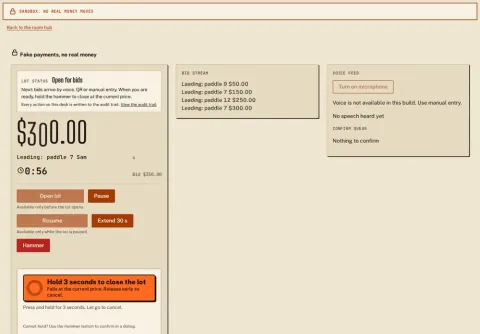
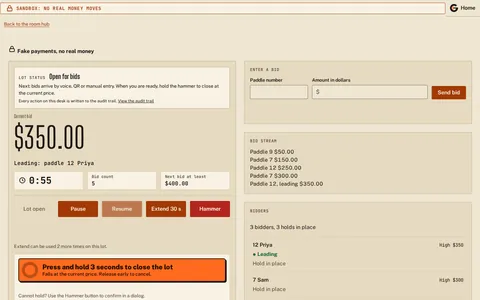
fix(web): refresh landing shots and show phone shots whole

diff --git a/packages/web/test/screens/landing-shots.spec.ts b/packages/web/test/screens/landing-shots.spec.ts
@@ -18,8 +18,12 @@ const OUT = process.env['LANDING_SHOTS_DIR'];
 /** Scenario time after the fifth bid and before the hammer: paddle 12 leads at $350.00. */
 const LIVE_AT = 5_500;
 const PADDLE = 12;
+/** Moves the sample room from its 2023 start to 11 Nov 2026, 09:30 UTC (a current date on the receipt). */
+const SHIFT = 1_794_389_400_000 - 1_700_000_000_000;
+/** Where the Screens section pictures go, when set (before/after checks of the page layout). */
+const SECTION_OUT = process.env['LANDING_SECTION_DIR'];
 
-test.skip(OUT === undefined, 'LANDING_SHOTS_DIR is not set');
+test.skip(OUT === undefined && SECTION_OUT === undefined, 'LANDING_SHOTS_DIR is not set');
 
 async function save(page: Page, name: string): Promise<void> {
   await page.evaluate(() => document.fonts.ready);
@@ -29,24 +33,37 @@ async function save(page: Page, name: string): Promise<void> {
 
 test.describe('landing shots', () => {
   test('console', async ({ page }, info) => {
-    test.skip(info.project.name !== 'desktop-light');
-    await openRoom(page, { scenario: happy, at: LIVE_AT, role: 'auctioneer', route: 'console' });
+    test.skip(OUT === undefined || info.project.name !== 'desktop-light');
+    await openRoom(page, {
+      scenario: happy,
+      at: LIVE_AT,
+      timeShiftMs: SHIFT,
+      role: 'auctioneer',
+      route: 'console',
+    });
     await page.getByRole('button', { name: t('console.hammer'), exact: true }).waitFor();
     await save(page, 'console');
   });
 
   test('screen', async ({ page }, info) => {
-    test.skip(info.project.name !== 'desktop-light');
-    await openRoom(page, { scenario: happy, at: LIVE_AT, role: 'screen', route: 'screen' });
+    test.skip(OUT === undefined || info.project.name !== 'desktop-light');
+    await openRoom(page, {
+      scenario: happy,
+      at: LIVE_AT,
+      timeShiftMs: SHIFT,
+      role: 'screen',
+      route: 'screen',
+    });
     await page.locator('main.gv-screen').waitFor();
     await save(page, 'screen');
   });
 
   test('bidder', async ({ page }, info) => {
-    test.skip(info.project.name !== 'phone-light');
+    test.skip(OUT === undefined || info.project.name !== 'phone-light');
     await openRoom(page, {
       scenario: happy,
       at: LIVE_AT,
+      timeShiftMs: SHIFT,
       role: 'bidder',
       route: 'bid',
       paddle: PADDLE,
@@ -56,15 +73,29 @@ test.describe('landing shots', () => {
   });
 
   test('receipt', async ({ page }, info) => {
-    test.skip(info.project.name !== 'phone-light');
+    test.skip(OUT === undefined || info.project.name !== 'phone-light');
     await openRoom(page, {
       scenario: happy,
       at: HAPPY.settled,
       role: 'bidder',
       route: 'receipt',
       paddle: PADDLE,
+      timeShiftMs: SHIFT,
     });
     await expect(page.getByRole('heading', { name: t('receipt.title') })).toBeVisible();
     await save(page, 'receipt');
+  });
+
+  test('section', async ({ page }, info) => {
+    test.skip(SECTION_OUT === undefined);
+    await page.goto('/');
+    const section = page.locator('#screens');
+    await section.scrollIntoViewIfNeeded();
+    await page.evaluate(() => document.fonts.ready);
+    // The images load lazily and the cards reveal on scroll: let both finish.
+    await page.waitForTimeout(1500);
+    await section.screenshot({
+      path: join(SECTION_OUT ?? '.', `section-${info.project.name}.png`),
+    });
   });
 });

diff --git a/packages/web/test/screens/support/harness.ts b/packages/web/test/screens/support/harness.ts
@@ -80,6 +80,11 @@ export interface RoomOptions {
   withoutToken?: boolean;
   /** Which roster paddle the device is, for the bidder role. Default: the first on the roster. */
   paddle?: number;
+  /**
+   * Moves every scenario timestamp (and the page clock) by this many ms, so a picture can show a
+   * current date instead of the scenario's 2023 start. Cents and other small numbers are untouched.
+   */
+  timeShiftMs?: number;
 }
 
 const BIDDER_CEILING_CENTS = 50_000;
@@ -99,7 +104,25 @@ export function roomIdOf(scenario: Scenario): string {
   throw new Error(`scenario ${scenario.name} has no state frame`);
 }
 
-function framesUpTo(scenario: Scenario, at: number, you: BidderId | null): ServerMessage[] {
+/** Adds `shift` to every number that looks like an epoch ms near BASE_TIME. */
+function shiftTimes(value: unknown, shift: number): unknown {
+  if (shift === 0) return value;
+  if (typeof value === 'number') {
+    return value >= BASE_TIME - 1e6 && value <= BASE_TIME + 1e7 ? value + shift : value;
+  }
+  if (Array.isArray(value)) return value.map((v) => shiftTimes(v, shift));
+  if (value !== null && typeof value === 'object') {
+    return Object.fromEntries(Object.entries(value).map(([k, v]) => [k, shiftTimes(v, shift)]));
+  }
+  return value;
+}
+
+function framesUpTo(
+  scenario: Scenario,
+  at: number,
+  you: BidderId | null,
+  shift = 0,
+): ServerMessage[] {
   const out: ServerMessage[] = [];
   for (const step of scenario.steps) {
     if (step.emit === undefined || step.at > at) continue;
@@ -116,7 +139,7 @@ function framesUpTo(scenario: Scenario, at: number, you: BidderId | null): Serve
       out.push(msg);
     }
   }
-  return out;
+  return shift === 0 ? out : (out.map((m) => shiftTimes(m, shift)) as ServerMessage[]);
 }
 
 function lastSeqOf(frames: readonly ServerMessage[]): number {
@@ -139,7 +162,15 @@ export async function serveRoom(
   page: Page,
   opts: Pick<
     RoomOptions,
-    'scenario' | 'at' | 'role' | 'reply' | 'dropAfterJoin' | 'joinError' | 'silent' | 'paddle'
+    | 'scenario'
+    | 'at'
+    | 'role'
+    | 'reply'
+    | 'dropAfterJoin'
+    | 'joinError'
+    | 'silent'
+    | 'paddle'
+    | 'timeShiftMs'
   >,
 ): Promise<ServedRoom> {
   const roomId = roomIdOf(opts.scenario);
@@ -147,15 +178,16 @@ export async function serveRoom(
   const me =
     roster.find((r) => (opts.paddle === undefined ? true : r.paddle === opts.paddle)) ?? roster[0];
   const you = opts.role === 'bidder' && me !== undefined ? (me.bidderId as BidderId) : null;
-  const frames = framesUpTo(opts.scenario, opts.at, you);
+  const shift = opts.timeShiftMs ?? 0;
+  const frames = framesUpTo(opts.scenario, opts.at, you, shift);
   let seq = lastSeqOf(frames);
   const next = (): Envelope => {
     seq += 1;
-    return { seq, ts: BASE_TIME + opts.at + seq };
+    return { seq, ts: BASE_TIME + shift + opts.at + seq };
   };
   let joined = false;
 
-  await page.clock.setFixedTime(BASE_TIME + opts.at);
+  await page.clock.setFixedTime(BASE_TIME + shift + opts.at);
   await page.routeWebSocket(WS_URL, (ws) => {
     if (opts.dropAfterJoin === true && joined) {
       void ws.close();

diff --git a/packages/web/src/copy/en.ts b/packages/web/src/copy/en.ts
@@ -189,13 +189,13 @@ export const en = {
     'Screenshots of the app on its test stage: a simulated room with sample bids and amounts. Not a real auction.',
   'mk.shots.bidder.cap': 'Bidder, on a phone: the price, your paddle and your hold.',
   'mk.shots.bidder.alt':
-    'The bidder screen on a phone: current price 500 dollars, leading paddle 7, your hold of 500 dollars marked held, and three bid buttons.',
+    'The bidder screen on a phone: a Leading badge, current price 350 dollars with paddle 12 in front, your limit of 500 dollars, and three bid buttons.',
   'mk.shots.screen.cap': 'Public screen: the current bid, the latest bids and a QR code to join.',
   'mk.shots.screen.alt':
-    'The public screen: a large price of 300 dollars, paddle number 7, a countdown, a list of latest bids and a QR code.',
+    'The public screen in cream and ink: a large price of 350 dollars, paddle number 12, a countdown, a list of latest bids and a QR code.',
   'mk.shots.receipt.cap': 'Receipt: the winning amount and the rest of the hold, released.',
   'mk.shots.receipt.alt':
-    'The receipt page: item, winning price 350 dollars, a bar with a solid part for the amount taken and a dashed part for the amount released.',
+    'The receipt page: sandbox notice, item, winning price 350 dollars, a charged amount, a bar with a solid part for the amount taken and a dashed part for the amount released.',
   'mk.shots.console.cap':
     'Auctioneer console: lot controls, the bid stream, bidders and their holds.',
   'mk.shots.console.alt':

diff --git a/packages/web/src/screens/landing/LandingStory.tsx b/packages/web/src/screens/landing/LandingStory.tsx
@@ -52,7 +52,7 @@ export function ShotsSection() {
       srcSet:
         '/landing/console-480.webp 480w, /landing/console-720.webp 720w, /landing/console.webp 1000w',
       width: 1000,
-      height: 694,
+      height: 625,
       cap: t('mk.shots.console.cap'),
       alt: t('mk.shots.console.alt'),
     },
@@ -62,7 +62,7 @@ export function ShotsSection() {
       srcSet:
         '/landing/screen-480.webp 480w, /landing/screen-720.webp 720w, /landing/screen.webp 1000w',
       width: 1000,
-      height: 677,
+      height: 625,
       cap: t('mk.shots.screen.cap'),
       alt: t('mk.shots.screen.alt'),
     },
@@ -70,7 +70,7 @@ export function ShotsSection() {
       id: 'bidder',
       src: '/landing/bidder.webp',
       width: 480,
-      height: 794,
+      height: 1039,
       cap: t('mk.shots.bidder.cap'),
       alt: t('mk.shots.bidder.alt'),
     },
@@ -78,7 +78,7 @@ export function ShotsSection() {
       id: 'receipt',
       src: '/landing/receipt.webp',
       width: 480,
-      height: 960,
+      height: 1039,
       cap: t('mk.shots.receipt.cap'),
       alt: t('mk.shots.receipt.alt'),
     },

diff --git a/packages/web/src/screens/landing/landing-story.css b/packages/web/src/screens/landing/landing-story.css
@@ -125,14 +125,14 @@
     grid-row: 1 / span 2;
   }
 
+  /* Phone shots show whole: no cropping, no stretching. The card is as tall as the picture needs. */
   .gv-shot--bidder .gv-shot__img,
   .gv-shot--receipt .gv-shot__img {
-    flex: 1 1 auto;
-    min-height: 0;
-    max-width: none;
-    height: 100%;
-    object-fit: cover;
-    object-position: top;
+    width: 100%;
+    max-width: 360px;
+    height: auto;
+    margin-inline: auto;
+    object-fit: contain;
   }
 }
 
